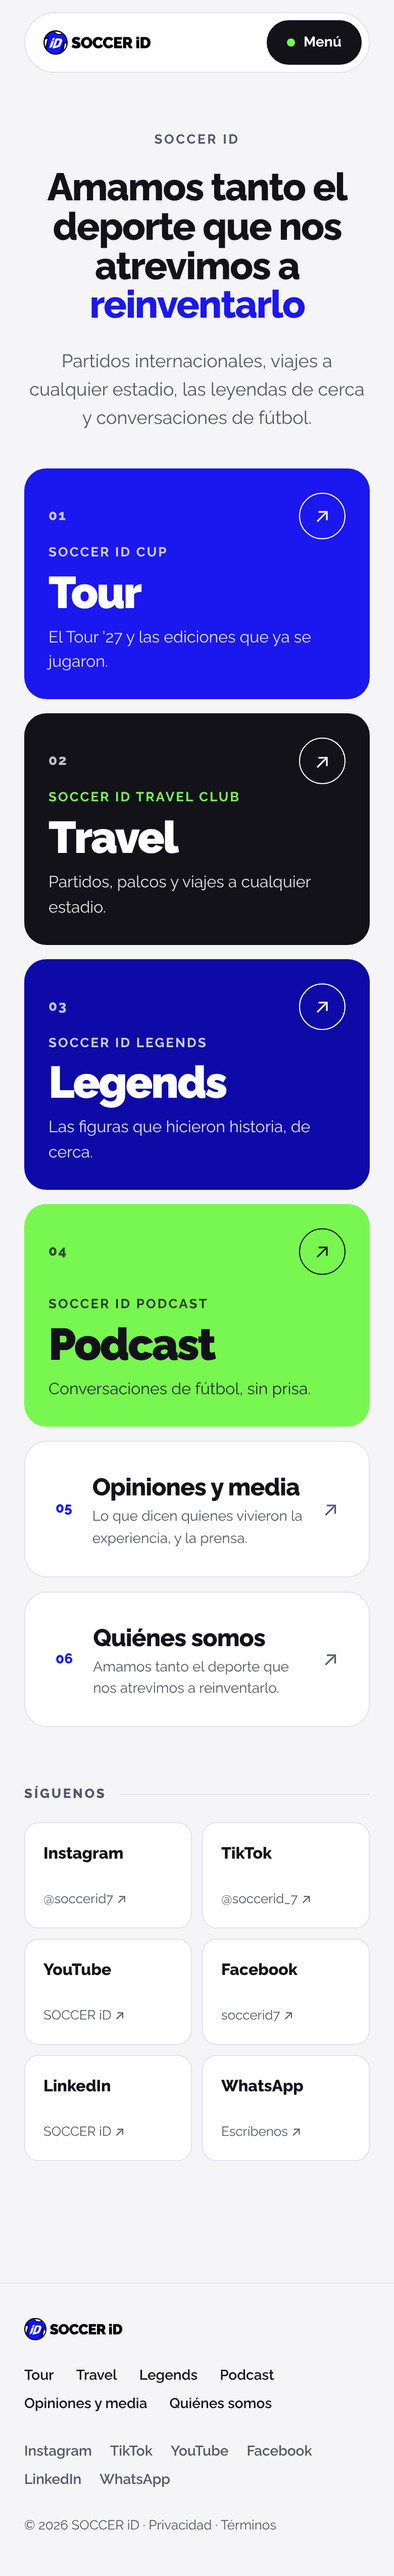
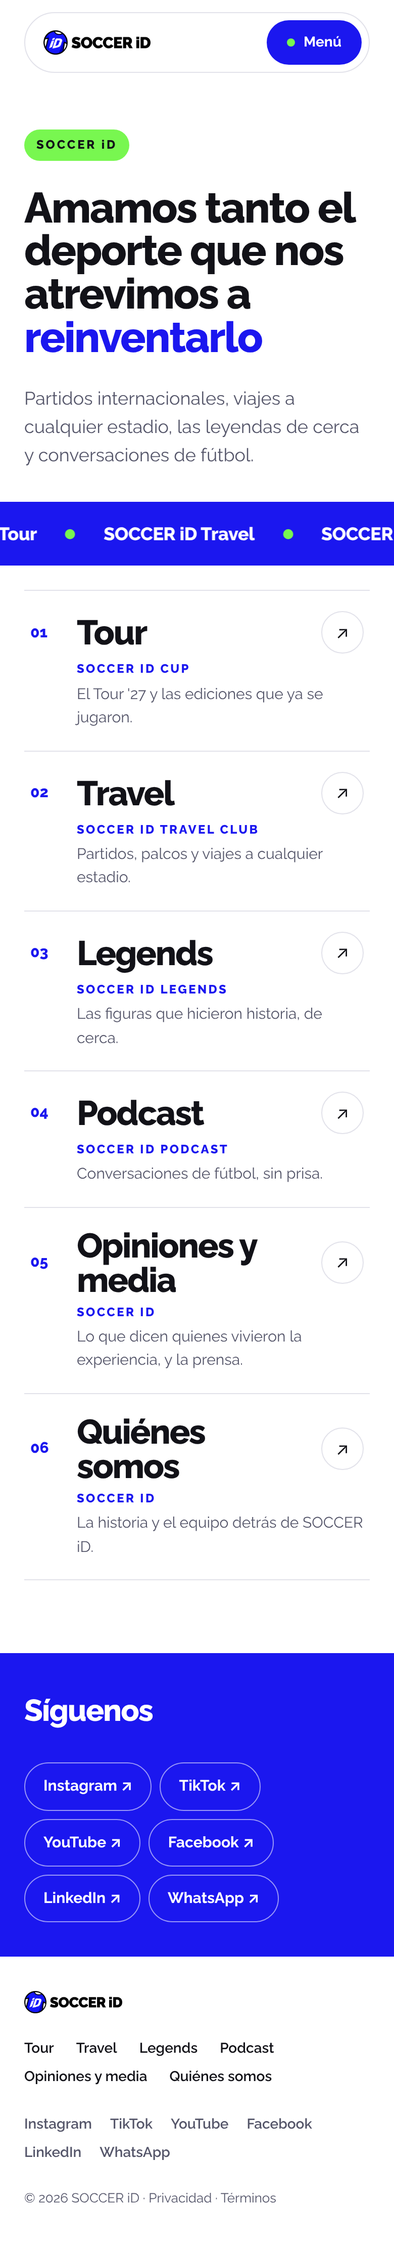
feat(inicio): tres colores y una sola línea, el home como índice
La primera vuelta daba un color sólido distinto a cada marca y se leía
como un revoltijo. Ahora el sitio usa tres colores: azul de protagonista,
verde de acento en sitios fijos y blanco de fondo, con la letra en negro.

El home es un índice: las seis secciones son filas iguales, sin color por
marca. El color lo pone la interacción: la fila se llena de azul al pasar
y la flecha gira en verde. Arriba, una cinta azul con las cuatro marcas
en movimiento lento; abajo, las redes en una sola banda azul.

Las filas entran escalonadas al cargar; con movimiento reducido todo queda
quieto. Las secciones interiores ya toman el azul único en el menú.

Claude-Session: https://claude.ai/code/session_01TBS5J98YBvjYTTdc9XtUtE

diff --git a/assets/css/v2.css b/assets/css/v2.css
@@ -8,13 +8,13 @@
    PLANO quiere decir: sin degradados, sin sombras, sin brillos. La jerarquía
    la dan el color sólido, el tamaño de la letra y el aire.
 
-   Los colores de marca son los del logo (sep 2026), los mismos de
-   docs/variables-del-proyecto.md. Cada una de las cuatro marcas tiene un
-   color sólido propio para reconocerla a primera vista:
-     Tour     azul de marca    texto blanco   (8.7 de contraste)
-     Travel   tinta casi negra texto blanco, acento verde
-     Legends  azul profundo    texto blanco   (12.4)
-     Podcast  verde neón       texto tinta    (14.2)
+   TRES COLORES, y nada más (pedido del usuario: la primera vuelta, con un
+   color por marca, se leía como un revoltijo):
+     azul   #1B17EF  el protagonista: titulares de acento, números, botones
+     verde  #78F750  el acento, poco y en sitios fijos: la cinta, la flecha
+     blanco          el fondo
+   La letra va en tinta casi negra, que no cuenta como color.
+   Todas las secciones llevan el MISMO tratamiento: una sola línea.
    El verde nunca va como texto sobre blanco: ahí da 1.4 y no se lee.
    ═══════════════════════════════════════════════════════════════════════ */
 
@@ -31,14 +31,15 @@
   --lima: #78F750;
   --tinta: #121218;
   --tinta-2: #55566A;      /* 6.9 sobre el fondo: texto secundario */
-  --fondo: #F5F5F8;
+  --fondo: #FFFFFF;
   --superficie: #FFFFFF;
   --linea: #E2E2EA;
 
+  /* Una sola línea: todas las secciones usan el azul. */
   --c-tour: var(--azul);
-  --c-travel: var(--tinta);
-  --c-legends: var(--azul-osc);
-  --c-podcast: var(--lima);
+  --c-travel: var(--azul);
+  --c-legends: var(--azul);
+  --c-podcast: var(--azul);
 
   --radio: 22px;
   --radio-sm: 14px;
@@ -77,7 +78,7 @@ img { display: block; max-width: 100%; }
 .nav__logo img { height: 24px; width: auto; }
 .nav__marcas {
   display: flex; gap: 2px; margin-left: 18px;
-  background: var(--fondo); border-radius: 999px; padding: 4px;
+  background: #F3F3F7; border-radius: 999px; padding: 4px;
 }
 .nav__link {
   font-size: 14px; font-weight: 600; color: var(--tinta-2);
@@ -89,7 +90,7 @@ img { display: block; max-width: 100%; }
 .nav__menu {
   display: inline-flex; align-items: center; gap: 9px;
   font-size: 14px; font-weight: 700;
-  background: var(--tinta); color: #fff;
+  background: var(--azul); color: #fff;
   padding: 11px 20px; border-radius: 999px; margin-left: 4px;
 }
 .nav__menu-punto { width: 8px; height: 8px; border-radius: 50%; background: var(--lima); }
@@ -156,64 +157,63 @@ img { display: block; max-width: 100%; }
    lateral de .envoltura y el contenido quedaría pegado al borde en celular. */
 .seccion { padding-block: 56px; }
 
-/* ─── Home: titular y menú de marcas ──────────────────────────────── */
-.inicio-hero { text-align: center; padding-block: 64px 56px; }
-.inicio-hero .kicker { margin-bottom: 18px; }
-.inicio-hero .titular { max-width: 980px; margin: 0 auto; }
-.inicio-hero .bajada { margin: 22px auto 0; }
+/* ─── Home: índice de una sola línea ──────────────────────────────── */
+.hero { padding-block: 72px 48px; }
+.etiqueta {
+  display: inline-block; font-size: 12px; font-weight: 800; letter-spacing: .16em;
+  background: var(--lima); color: var(--tinta); padding: 6px 12px; border-radius: 999px;
+  margin-bottom: 26px;
+}
+.hero .titular { max-width: 1000px; font-size: clamp(42px, 7.2vw, 96px); }
+.hero .bajada { margin-top: 24px; }
 
-.marcas { display: grid; grid-template-columns: 1fr 1fr; gap: 14px; }
-.marca {
-  position: relative; display: flex; flex-direction: column;
-  min-height: 300px; padding: 30px 32px;
-  border-radius: var(--radio); color: #fff;
-  transition: transform .2s;
-}
-.marca:hover { transform: translateY(-3px); }
-.marca--tour { background: var(--c-tour); }
-.marca--travel { background: var(--c-travel); }
-.marca--legends { background: var(--c-legends); }
-.marca--podcast { background: var(--c-podcast); color: var(--tinta); }
-.marca__arriba { display: flex; align-items: center; justify-content: space-between; }
-.marca__num { font-size: 14px; font-weight: 800; letter-spacing: .08em; opacity: .75; }
-.marca__flecha {
-  width: 46px; height: 46px; border-radius: 50%;
-  display: flex; align-items: center; justify-content: center;
-  border: 1.5px solid currentColor; font-size: 20px;
-  transition: background .2s, color .2s;
-}
-.marca:hover .marca__flecha { background: #fff; color: var(--tinta); border-color: #fff; }
-.marca--podcast:hover .marca__flecha { background: var(--tinta); color: var(--lima); border-color: var(--tinta); }
-.marca__abajo { margin-top: auto; }
-.marca__sub { font-size: 13px; font-weight: 700; letter-spacing: .12em; text-transform: uppercase; opacity: .8; }
-.marca__nombre { font-size: clamp(44px, 6vw, 72px); font-weight: 900; letter-spacing: -.035em; line-height: 1; margin: 6px 0 10px; }
-.marca__linea { font-size: 16px; max-width: 360px; opacity: .88; }
-.marca--travel .marca__sub { color: var(--lima); opacity: 1; }
+/* Cinta: la única pieza que se mueve sola. Lenta, para acompañar y no distraer. */
+.cinta { background: var(--azul); color: #fff; overflow: hidden; padding-block: 18px; }
+.cinta__pista { display: flex; align-items: center; gap: 28px; width: max-content; animation: cinta 38s linear infinite; }
+.cinta__pista span { font-size: clamp(18px, 2.2vw, 26px); font-weight: 800; letter-spacing: -.01em; white-space: nowrap; }
+.cinta__pista i { width: 10px; height: 10px; border-radius: 50%; background: var(--lima); flex: none; }
+@keyframes cinta { to { transform: translateX(-50%); } }
 
-.apoyo { margin-top: 14px; display: grid; grid-template-columns: 1fr 1fr; gap: 14px; }
-.apoyo__item {
-  display: flex; align-items: center; gap: 20px;
-  background: var(--superficie); border: 1px solid var(--linea);
-  border-radius: var(--radio); padding: 26px 30px;
-  transition: border-color .15s;
-}
-.apoyo__item:hover { border-color: var(--tinta); }
-.apoyo__num { font-size: 14px; font-weight: 800; color: var(--azul); }
-.apoyo__texto { flex: 1; }
-.apoyo__nombre { font-size: 24px; font-weight: 800; letter-spacing: -.02em; }
-.apoyo__linea { font-size: 14px; color: var(--tinta-2); }
-.apoyo__flecha { font-size: 20px; color: var(--tinta-2); }
+.indice { padding-block: 24px 72px; }
+.indice__lista { list-style: none; border-top: 1px solid var(--linea); }
+.indice__lista li { opacity: 0; transform: translateY(14px); animation: entra .55s cubic-bezier(.2,.8,.2,1) forwards; animation-delay: calc(var(--i) * 70ms + 120ms); }
+@keyframes entra { to { opacity: 1; transform: none; } }
 
-.redes { display: grid; grid-template-columns: repeat(6, 1fr); gap: 10px; }
-.red {
-  background: var(--superficie); border: 1px solid var(--linea); border-radius: var(--radio-sm);
-  padding: 18px; display: flex; flex-direction: column; gap: 22px;
-  transition: background .15s, border-color .15s, color .15s;
+/* La fila se llena de azul de izquierda a derecha al pasar. Es un fondo de un
+   solo color que crece, no un degradado: sigue siendo plano. */
+.fila {
+  display: grid; grid-template-columns: 64px minmax(0, 1.1fr) minmax(0, 1fr) 56px;
+  align-items: center; gap: 24px;
+  padding: 26px 18px; border-bottom: 1px solid var(--linea);
+  background: linear-gradient(var(--azul), var(--azul)) no-repeat left / 0% 100%;
+  transition: background-size .45s cubic-bezier(.2,.8,.2,1), color .25s;
 }
-.red:hover { background: var(--tinta); border-color: var(--tinta); color: #fff; }
-.red__nombre { font-weight: 800; font-size: 16px; }
-.red__usuario { font-size: 13px; color: var(--tinta-2); }
-.red:hover .red__usuario { color: rgba(255,255,255,.75); }
+.fila__num { font-size: 15px; font-weight: 800; color: var(--azul); transition: color .25s; }
+.fila__nombre { font-size: clamp(34px, 5vw, 64px); font-weight: 800; letter-spacing: -.035em; line-height: 1; }
+.fila__texto { display: flex; flex-direction: column; gap: 4px; }
+.fila__sub { font-size: 12px; font-weight: 800; letter-spacing: .14em; text-transform: uppercase; color: var(--azul); transition: color .25s; }
+.fila__linea { font-size: 15px; color: var(--tinta-2); transition: color .25s; }
+.fila__flecha {
+  width: 52px; height: 52px; border-radius: 50%; justify-self: end;
+  display: flex; align-items: center; justify-content: center; font-size: 20px;
+  border: 1.5px solid var(--linea); color: var(--tinta);
+  transition: background .25s, border-color .25s, color .25s, transform .35s cubic-bezier(.2,.8,.2,1);
+}
+.fila:hover { background-size: 100% 100%; color: #fff; }
+.fila:hover .fila__num, .fila:hover .fila__sub { color: var(--lima); }
+.fila:hover .fila__linea { color: rgba(255,255,255,.85); }
+.fila:hover .fila__flecha { background: var(--lima); border-color: var(--lima); color: var(--tinta); transform: rotate(45deg); }
+
+.banda { background: var(--azul); color: #fff; }
+.banda__dentro { padding-block: 44px; display: flex; align-items: center; justify-content: space-between; gap: 28px; flex-wrap: wrap; }
+.banda__t { font-size: clamp(30px, 4vw, 48px); font-weight: 800; letter-spacing: -.03em; }
+.banda__redes { display: flex; flex-wrap: wrap; gap: 8px; }
+.banda__redes a {
+  font-size: 15px; font-weight: 700; padding: 11px 18px; border-radius: 999px;
+  border: 1.5px solid rgba(255,255,255,.55); transition: background .2s, color .2s, border-color .2s;
+}
+.banda__redes a:hover { background: var(--lima); border-color: var(--lima); color: var(--tinta); }
+.v2--inicio .pie { margin-top: 0; border-top: 0; }
 
 /* ─── Cabecera de cada sección ────────────────────────────────────── */
 .cabecera { padding-block: 40px 8px; }
@@ -225,12 +225,9 @@ img { display: block; max-width: 100%; }
 .v2--tour { --color-seccion: var(--c-tour); }
 .v2--travel { --color-seccion: var(--c-travel); }
 .v2--legends { --color-seccion: var(--c-legends); }
-.v2--podcast { --color-seccion: var(--lima); }
+.v2--podcast { --color-seccion: var(--azul); }
 .v2--apoyo { --color-seccion: var(--azul); }
-.v2--tour .nav__link.is-activo { background: var(--c-tour); }
-.v2--travel .nav__link.is-activo { background: var(--c-travel); }
-.v2--legends .nav__link.is-activo { background: var(--c-legends); }
-.v2--podcast .nav__link.is-activo { background: var(--lima); color: var(--tinta); }
+
 
 /* ─── Tour: lo que viene y lo que ya pasó ─────────────────────────── */
 .tour27 {
@@ -360,9 +357,10 @@ img { display: block; max-width: 100%; }
   .nav__marcas { display: none; }
   .nav { top: 12px; }
   .nav__pildora { width: 100%; justify-content: space-between; padding-left: 18px; }
-  .marcas, .apoyo { grid-template-columns: 1fr; }
-  .marca { min-height: 220px; padding: 24px; }
-  .redes { grid-template-columns: repeat(2, 1fr); }
+  .fila { grid-template-columns: 34px minmax(0, 1fr) 42px; gap: 6px 12px; padding: 20px 6px; }
+  .fila__texto { grid-column: 2 / 4; }
+  .fila__flecha { grid-row: 1; grid-column: 3; width: 42px; height: 42px; font-size: 17px; }
+  .banda__dentro { padding-block: 34px; }
   .tour27 { grid-template-columns: 1fr; padding: 26px; gap: 26px; }
   /* El partido en dos renglones: rótulo arriba, nombre y estado abajo. En una
      sola fila el nombre se partía en cuatro líneas. */
@@ -377,10 +375,12 @@ img { display: block; max-width: 100%; }
   .somos { gap: 26px; }
   .somos__texto { font-size: 18px; }
   .pagina { padding-top: 88px; }
-  .inicio-hero { padding-block: 40px 36px; }
+  .hero { padding-block: 40px 32px; }
 }
 @media (prefers-reduced-motion: reduce) {
   * { transition: none !important; }
+  .cinta__pista { animation: none; }
+  .indice__lista li { animation: none; opacity: 1; transform: none; }
 }
 
 /* Los textos que vienen de los JSON traen text-align: justify en línea. En

diff --git a/index.js b/index.js
@@ -1612,7 +1612,7 @@ function seccionesV2(lang) {
     { slug: 'opiniones', num: '05', marca: false, color: 'apoyo', nombre: es ? 'Opiniones y media' : 'Reviews & media',
       linea: es ? 'Lo que dicen quienes vivieron la experiencia, y la prensa.' : 'What people and the press say.' },
     { slug: 'nosotros', num: '06', marca: false, color: 'apoyo', nombre: es ? 'Quiénes somos' : 'About us',
-      linea: es ? 'Amamos tanto el deporte que nos atrevimos a reinventarlo.' : 'We love sport so much we dared to reinvent it.' }
+      linea: es ? 'La historia y el equipo detrás de SOCCER iD.' : 'The story and the team behind SOCCER iD.' }
   ].map(sx => Object.assign(sx, { url: `/${lang}/${sx.slug}` }));
 }
 
